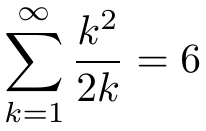
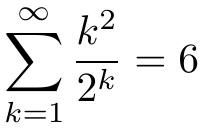
fix error in series

diff --git a/README.md b/README.md
@@ -14,19 +14,19 @@ I present TeX2pic. TeX2pic is command line tool which converts a tex equation in
 The resolution of the picture in this example is of course not good enough for a poster. One can use the -r option to play with the resolution of the picture:
 
 ```
-./tex2pic -r 300 -o out.png "\sum_{k=1}^{\infty} \frac{k^2}{2k} = 6"
+./tex2pic -r 300 -o out.png "\sum_{k=1}^{\infty} \frac{k^2}{2^k} = 6"
 ```
 
 ![](https://github.com/JeroenMulkers/tex2pic/blob/master/examples/series_default.png)
 
 ```
-./tex2pic -r 100 -o out.png "\sum_{k=1}^{\infty} \frac{k^2}{2k} = 6"
+./tex2pic -r 100 -o out.png "\sum_{k=1}^{\infty} \frac{k^2}{2^k} = 6"
 ```
 
 ![](https://github.com/JeroenMulkers/tex2pic/blob/master/examples/series_r100.png)
 
 ```
-./tex2pic -r 500 -o out.png "\sum_{k=1}^{\infty} \frac{k^2}{2k} = 6"
+./tex2pic -r 500 -o out.png "\sum_{k=1}^{\infty} \frac{k^2}{2^k} = 6"
 ```
 
 ![](https://github.com/JeroenMulkers/tex2pic/blob/master/examples/series_r500.png)
